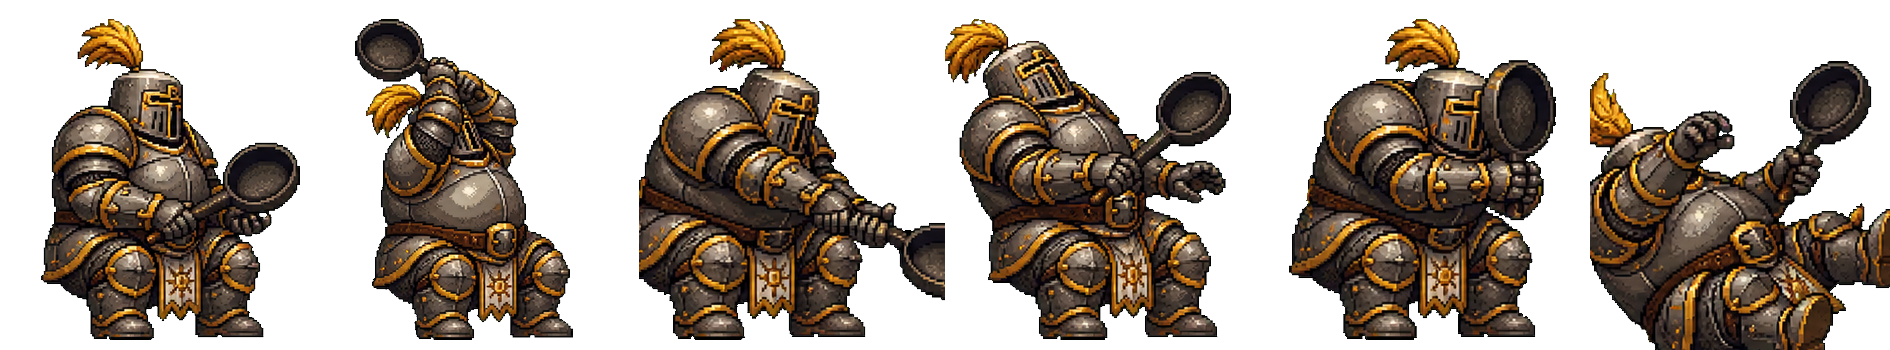
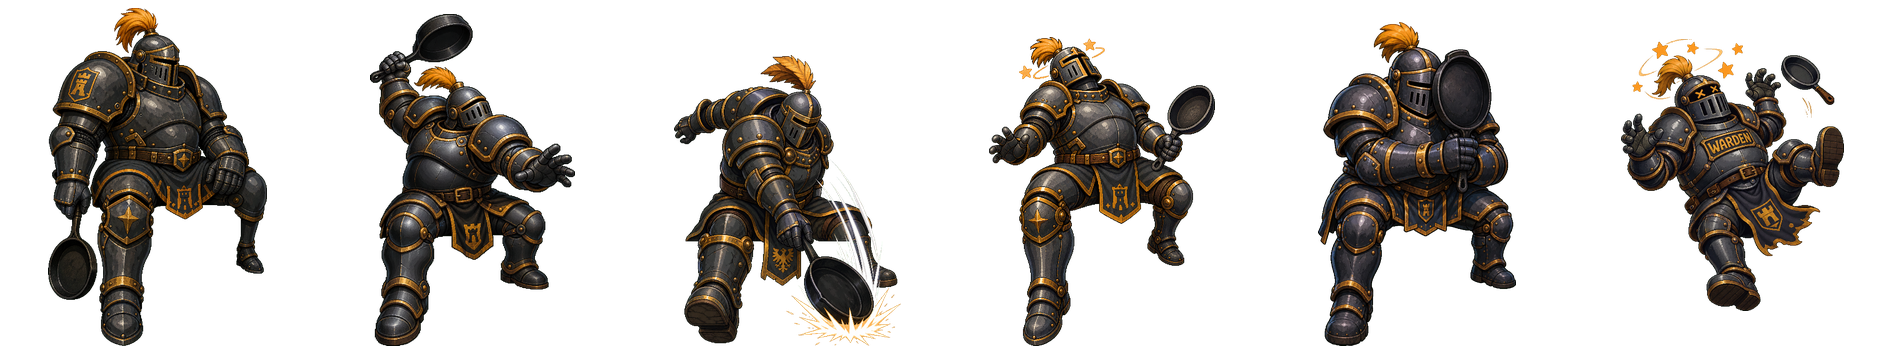
WARDEN: astride-log pose + 3-frame swing animation (parity, iter 58)
Continues the roster roll-out (crimson iter55/56, azure iter57): WARDEN (the
TANK) now straddles the log and plays the real 3-frame swing animation instead
of bench-sitting + stiff-rotating.

Asset: regenerated all 6 warden cells (idle/windup/strike/hit/guard/fall) astride
with warden identity (bulky dark-steel/gunmetal plate, gold/amber trim, great-helm
+ amber plume, TANK heft) via Codex image_gen (Route A, free, < /dev/null) run
SEQUENTIALLY (per the iter-57 lesson: parallel image_gen procs race on the shared
~/.codex/generated_images dir and duplicate cells — md5-verified all 6 distinct
here). Chroma-keyed green->transparent incl. the inter-leg channel that reveals
the log behind the sprite; windup/strike used the leg-LOCK prompt (legs frozen
astride, only upper body animates). Packed at the same fixed-scale/anchor packer
into the single-row knight_warden_atlas.png (1890x350, dims unchanged).

Code: one RENDER-ONLY data flag — swingFrames:true on warden's CHARACTERS entry
— enables the already-shipped generic drawKnight swing-phase animation (cols 1/2
selected off swingVel/swingAngle). Zero combat-core change: panTip/bodyBox/
swingAngle physics/resolveCombat/snapKnight byte-identical; hit detection, the
"流れパン" gray-zone and online determinism preserved exactly as crimson/azure.

Verified: 6 cells distinct+astride+heavy (_shots/warden_contact.png) and a
faithful on-log composite replicating drawKnight's exact transform (ATLAS_SCALE
[…]

diff --git a/index.html b/index.html
@@ -787,7 +787,7 @@ const CHARACTERS = [
   { id:"warden", name:"ウォーデン", en:"WARDEN KNIGHT", sprite:"knightWarden", portrait:"portraitWarden",
     atlas:"knightWardenAtlas", atlasRow:0,
     accent:"#e0a45a", accentRGB:"190,140,70", badgeRGB:"150,104,40",
-    signatureSpecial:"anchor", archetype:"TANK",
+    signatureSpecial:"anchor", archetype:"TANK", swingFrames:true,
     blurb:"鈍重だが難攻不落。踏ん張りの壁。",
     mul:{ maxSpeed:0.85, accel:0.85, swingImpulse:1.10, springK:0.95, hopV:0.85, knockScale:1.18 } },
   { id:"vesper", name:"ヴェスパー", en:"VESPER KNIGHT", sprite:"knightVesper", portrait:"portraitVesper",